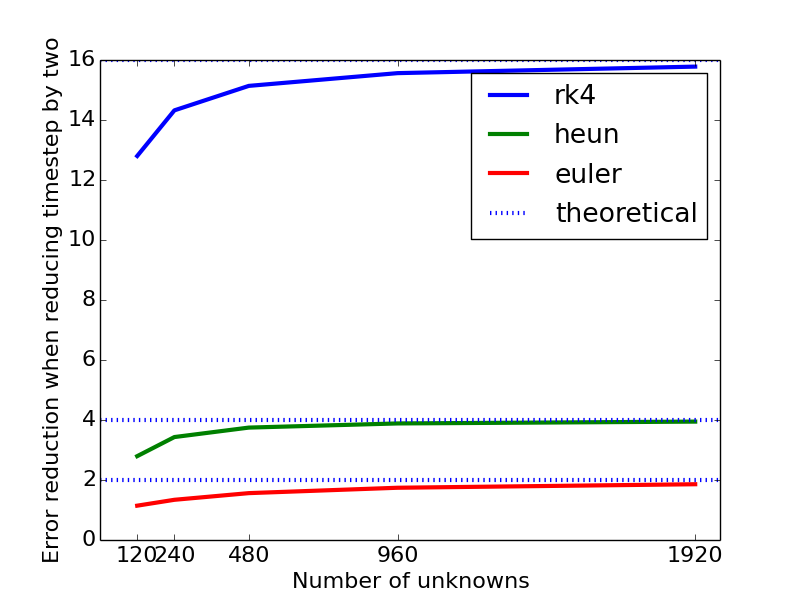
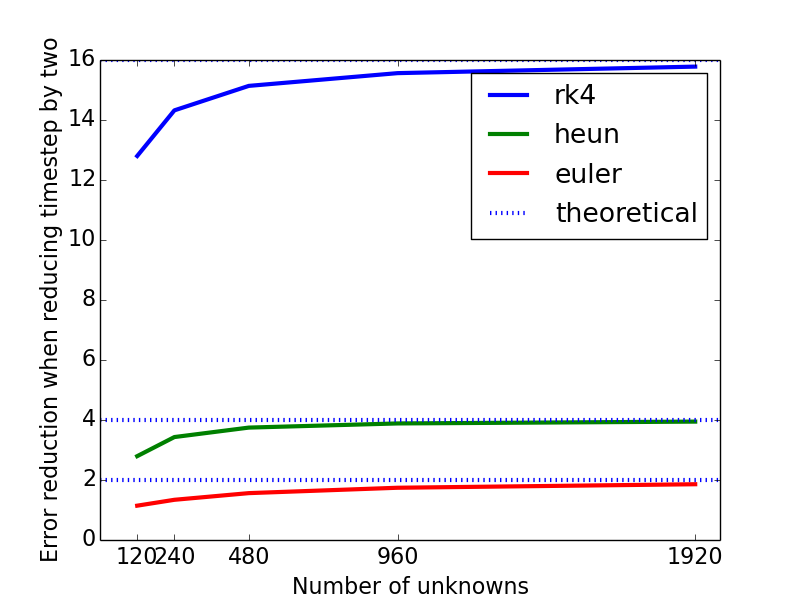
updates

diff --git a/allfiles/digital_compendium/._main018.html b/allfiles/digital_compendium/._main018.html
@@ -236,7 +236,14 @@ following.
         legend(legends,loc<span style="color: #666666">=</span><span style="color: #BA2121">&#39;best&#39;</span>)
         xlabel(<span style="color: #BA2121">&#39;Number of unknowns&#39;</span>)
         ylabel(<span style="color: #BA2121">&#39;Error reduction when reducing timestep by two&#39;</span>)
+        savefig(<span style="color: #BA2121">&#39;ConvergenceODEschemes.png&#39;</span>, transparent<span style="color: #666666">=</span><span style="color: #008000">True</span>)
 </pre></div>
+<p>
+<center> <!-- figure -->
+<center><p class="caption">Figure 12:  The convergence rate for the various ODE-solvers a function of the number of timesteps. <div id="fig:convergence_rate"></div> </p></center>
+<p><img src="chapter1/programs_and_modules/ConvergenceODEschemes.png" align="bottom" width=700></p>
+</center>
+
 <p>
 <!-- begin bibliography -->
 
